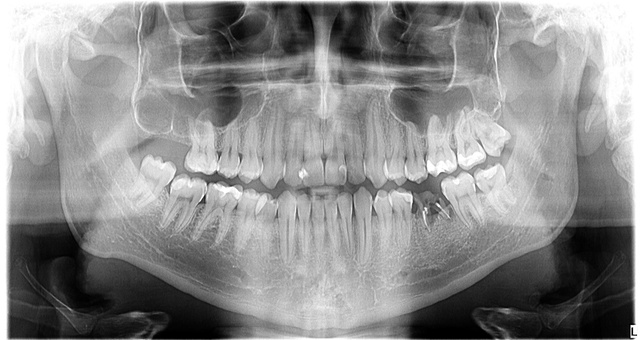
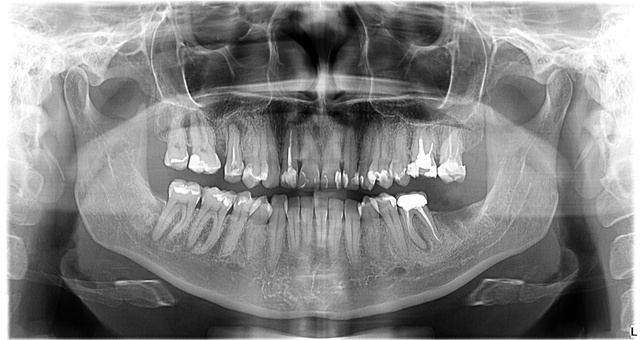
commit requirements

diff --git a/ai_service/teethDetectorOnnx.py b/ai_service/teethDetectorOnnx.py
@@ -1,0 +1,166 @@
+
+import onnxruntime as ort
+import numpy as np
+import cv2
+from domain.teeth import Teeth
+class TeethDetectorONNX:
+    def __init__(self, model_path):
+        self.session = ort.InferenceSession(model_path)
+        self.input_name = self.session.get_inputs()[0].name
+        self.output_names = [output.name for output in self.session.get_outputs()]
+
+    def preprocess(self, image, target_size=640):
+        image = np.array(image)
+        # Resize and normalize
+        print("preprocess")
+        resized = cv2.resize(image, (target_size, target_size))
+        print("preprocess1")
+        resized = resized.astype(np.float32) / 255.0
+        print("preprocess2")
+        resized = np.transpose(resized, (2, 0, 1))  # channels first
+        print("preprocess3")
+        resized = np.expand_dims(resized, axis=0)  # batch dim
+        print("preprocess4")
+        return resized, image.shape[1], image.shape[0]  # also return original width, height
+
+    def postprocess(self, outputs, orig_w, orig_h, conf_thres=0.2):
+        preds = outputs[0]  # (1, 88, 8400)
+        mask_protos = outputs[1]  # (1, 32, 160, 160)
+        num_classes = 52  # <- ⚡ adaugă aici câte clase ai
+
+        preds = preds[0]  # (88, 8400)
+        mask_protos = mask_protos[0]  # (32, 160, 160)
+
+        preds = preds.transpose(1, 0)  # (8400, 88)
+
+        print("preds0 = ",preds[0],"len = ",len(preds[0]))
+
+        print("preds1 = ",preds[1],"len = ",len(preds[1]))
+        bbox = preds[:, :4]
+        class_probs = preds[:, 4:4 + num_classes]
+        mask_coeffs = preds[:, 4 + num_classes:]
+        print("bbox len ",len(bbox))
+        print("class_probs len", len(class_probs[0]))
+
+
+
+
+        print("bbox ",bbox[0])
+        print("class_probs ",class_probs[0] , "len ",len(class_probs[0]))
+        print("mask_coeffs ",mask_coeffs[0] , "len ",len(mask_coeffs[0]))
+
+        teeth_list = []
+
+        print("preds shape len = ",preds.shape[0])
+
+        teeth_dict = {}
+
+        # Iterează prin toate predicțiile
+        for i in range(preds.shape[0]):
+
+            # Extrage probabilitățile pentru fiecare clasă
+            class_probs_i = class_probs[i]
+
+            # Caută probabilitatea maximă și clasa asociată
+            max_class_prob = np.max(class_probs_i)
+            class_id = np.argmax(class_probs_i)
+
+            # Adaugă un tuplu cu (indice predicție, probabilitate maximă) în dicționar
+            if class_id not in teeth_dict:
+                teeth_dict[class_id] = [(i, max_class_prob)]  # Inițializează lista cu primul tuplu
+            else:
+                teeth_dict[class_id].append((i, max_class_prob))  # Adaugă tuplu la lista existentă
+
+        # Filtrează dictionarul pentru a păstra doar tuplul cu probabilitatea maximă pentru fiecare clasă
+        for class_id in teeth_dict:
+            # Obține lista de tupluri pentru clasa respectivă
+            prediction_list = teeth_dict[class_id]
+
+            # Alege tuplul cu probabilitatea maximă
+            best_prediction = max(prediction_list, key=lambda x: x[1])
+
+            # Actualizează în dictionar pentru fiecare clasă cu tuplul cu probabilitatea maximă
+            teeth_dict[class_id] = best_prediction
+
+        print("teeth dict ", teeth_dict)
+
+
+        for class_id in list(teeth_dict.keys()):  # Iterează printr-o copie a cheilor pentru a evita erori în timp ce modifici dicționarul
+
+            val = teeth_dict[class_id]
+
+            # Verifică dacă probabilitatea maximă este mai mare sau egală cu 0.3
+            if val[1] < conf_thres:
+                # Dacă probabilitatea este mai mică decât 0.3, elimină clasa din dicționar
+                del teeth_dict[class_id]
+
+
+        print(sorted(teeth_dict.keys()))
+
+        return teeth_list
+        # for i in range(preds.shape[0]):
+        #
+        #         x1, y1, x2, y2 = bbox[i]
+        #         class_probs_i = class_probs[i]
+        #         class_id = int(np.argmax(class_probs_i))  # <- ia clasa cu cea mai mare probabilitate
+        #
+        #
+        #         # Caută probabilitatea maximă și clasa asociată
+        #         max_class_prob = np.max(class_probs_i)
+        #         class_id = np.argmax(class_probs_i)
+        #
+        #         # Setează un prag de confidență, de exemplu 0.5
+        #
+        #         if not teeth_dict[str(class_id)]:
+        #             teeth_dict[str(class_id)] = [max_class_prob]
+        #         else:
+        #             teeth_dict[str(class_id)].append(max_class_prob)
+        #
+        #         #object_confidence = preds[i, 4]  # Probabilitatea obiectului (fără clasa)
+        #         #print("obj_conf ",object_confidence)
+        #         if max_class_prob > conf_thres:
+        #             print("conf = ", max_class_prob)
+        #             print("class_id ", class_id)
+        #             coeffs = mask_coeffs[i]
+        #             # print("coeffs ",coeffs)
+        #
+        #             mask = np.dot(coeffs, mask_protos.reshape(mask_protos.shape[0], -1))
+        #             # print("mask1 ",mask)
+        #             mask = mask.reshape(mask_protos.shape[1], mask_protos.shape[2])
+        #             mask = cv2.resize(mask, (640, 640))
+        #             mask = (mask > 0.5).astype(np.uint8)
+        #             mask = cv2.resize(mask, (orig_w, orig_h))
+        #
+        #             x1_int, y1_int, x2_int, y2_int = map(int, [x1 / 640 * orig_w, y1 / 640 * orig_h, x2 / 640 * orig_w,
+        #                                                        y2 / 640 * orig_h])
+        #             mask_cropped = mask[y1_int:y2_int, x1_int:x2_int]
+        #
+        #             contours, _ = cv2.findContours(mask_cropped, cv2.RETR_EXTERNAL, cv2.CHAIN_APPROX_SIMPLE)
+        #
+        #             if contours:
+        #                 polygon = max(contours, key=cv2.contourArea).squeeze().tolist()
+        #                 if isinstance(polygon[0], list):
+        #                     polygon = [[p[0] + x1_int, p[1] + y1_int] for p in polygon]
+        #                 else:
+        #                     polygon = [polygon[0] + x1_int, polygon[1] + y1_int]
+        #             else:
+        #                 polygon = []
+        #
+        #             tooth = Teeth(name=class_id, polygon=polygon)
+        #             teeth_list.append(tooth)
+
+
+
+    def detect_teeths(self, image):
+
+        print("detect_teeths")
+        input_tensor, orig_w, orig_h = self.preprocess(image)
+
+        print("input_tensor ",input_tensor)
+
+        outputs = self.session.run(self.output_names, {self.input_name: input_tensor})
+
+        print("outputs ", outputs)
+        teeth_list = self.postprocess(outputs, orig_w, orig_h)
+        #print("teeth_list detector ", teeth_list)
+        return teeth_list

diff --git a/ai_service/aiService.py b/ai_service/aiService.py
@@ -8,13 +8,14 @@ from shapely.geometry import Polygon, Point , LineString
 
 import numpy as np
 import cv2
-
+from ai_service.teethDetectorOnnx import  TeethDetectorONNX
 
 class AiService:
     def __init__(self, teeth_model_path, issue_model_path):
           # Assuming you're using YOLO models
         self.teeth_model = YOLO(teeth_model_path)  # Load the first model
         self.issues_model = YOLO(issue_model_path)  # Load the second model
+        self.teethDetector = TeethDetectorONNX('teeth_model.onnx')
 
         self.issue_labels = {
             0:  'Implant',
@@ -41,59 +42,6 @@ class AiService:
         return self.issues_model.predict(source=image_path)
 
 
-    # def display_predictions(self, image, result):
-    #     """
-    #     Afișează bounding box-urile și etichetele pe imagine cu culori diferite pentru fiecare clasă.
-    #
-    #     Args:
-    #         image: Imaginea originală (format PIL sau numpy array).
-    #         result: Rezultatele predicției YOLO (Ultralytics).
-    #         issue_labels: Lista etichetelor claselor (ex. ["class1", "class2", ...]).
-    #     """
-    #     # Convertim imaginea într-un format OpenCV dacă e PIL
-    #     if not isinstance(image, np.ndarray):
-    #         image = np.array(image)
-    #
-    #     # Generăm culori unice pentru fiecare clasă
-    #
-    #
-    #
-    #     boxes = result[0].boxes  # Obține toate bounding box-urile
-    #
-    #     colors = {class_id: [random.randint(0, 255) for _ in range(3)] for class_id in range(len(boxes))}
-    #
-    #     for i in range(len(boxes)):
-    #         x_min, y_min, x_max, y_max = map(int, boxes.xyxy[i].tolist())  # Coordonate bbox
-    #         class_id = int(boxes.cls[i].item())  # Clasa prezisă
-    #         confidence = boxes.conf[i].item()  # Confidența predicției
-    #
-    #         # Numele clasei prezise
-    #         label = f"{class_id} ({confidence:.2f})"
-    #         color = colors[class_id]  # Culoarea clasei
-    #
-    #         # Desenăm bounding box-ul pe imagine
-    #         cv2.rectangle(image, (x_min, y_min), (x_max, y_max), color=color, thickness=2)
-    #
-    #         # Adăugăm eticheta deasupra bounding box-ului
-    #         font_scale = 0.5
-    #         font_thickness = 1
-    #         text_size = cv2.getTextSize(label, cv2.FONT_HERSHEY_SIMPLEX, font_scale, font_thickness)[0]
-    #         text_x, text_y = x_min, y_min - 5  # Poziția textului
-    #         text_background = (x_min, y_min - text_size[1] - 5, x_min + text_size[0], y_min)
-    #
-    #         # Desenăm un fundal pentru text (opțional)
-    #         cv2.rectangle(image, (text_background[0], text_background[1]),
-    #                       (text_background[2], text_background[3]), color, -1)
-    #
-    #         # Adăugăm textul pe imagine
-    #         cv2.putText(image, label, (text_x, text_y), cv2.FONT_HERSHEY_SIMPLEX,
-    #                     font_scale, (255, 255, 255), thickness=font_thickness)
-    #
-    #     # Afișăm imaginea folosind Matplotlib (nu blochează execuția)
-    #     plt.figure(figsize=(10, 10))
-    #     plt.axis('off')
-    #     plt.imshow(cv2.cvtColor(image, cv2.COLOR_BGR2RGB))
-    #     plt.show()
 
     def scale_coordinates(self,coords, original_shape, processed_shape):
         """
@@ -267,11 +215,17 @@ class AiService:
                 # Get the polygon (contour) of the mask
                 mask = masks.data[i].numpy()
 
+                print(mask)
+
+
                 contours, _ = cv2.findContours(mask.astype('uint8'), cv2.RETR_EXTERNAL, cv2.CHAIN_APPROX_SIMPLE)
 
+                print(contours)
                 # Choose the largest contour as the polygon (in case of multiple)
                 if contours:
                     polygon = max(contours, key=cv2.contourArea).squeeze().tolist()
+
+                    print(polygon)
 
                 else:
                     polygon = []
@@ -289,7 +243,14 @@ class AiService:
 
                 teeth_list.append(tooth)
 
-        print("get teeths")
+        print("get teeths yolo")
+        print(teeth_list)
+        print("get teeths onnx")
+        print("input names")
+        print(self.teethDetector.input_name)
+        print("output names")
+        print(self.teethDetector.output_names)
+        self.teethDetector.detect_teeths(image)
 
         self.load_issues(teeth_list,resized_image)
         for teeth in teeth_list:
@@ -302,3 +263,5 @@ class AiService:
 
 
 #Theets  [Teeth(name=31, issues=['Prosthetic restoration']), Teeth(name=29, issues=['Prosthetic restoration']), Teeth(name=6, issues=['Prosthetic restoration']), Teeth(name=7, issues=['Endodontic treatment', 'Prosthetic restoration']), Teeth(name=24, issues=[]), Teeth(name=27, issues=[]), Teeth(name=28, issues=[]), Teeth(name=9, issues=[]), Teeth(name=21, issues=[]), Teeth(name=8, issues=[]), Teeth(name=20, issues=[]), Teeth(name=4, issues=['Prosthetic restoration']), Teeth(name=5, issues=['Prosthetic restoration']), Teeth(name=1, issues=['Impacted tooth']), Teeth(name=3, issues=['Prosthetic restoration']), Teeth(name=10, issues=['Prosthetic restoration']), Teeth(name=23, issues=[]), Teeth(name=14, issues=['Prosthetic restoration']), Teeth(name=22, issues=[]), Teeth(name=13, issues=['Prosthetic restoration']), Teeth(name=18, issues=[]), Teeth(name=13, issues=['Prosthetic restoration']), Teeth(name=15, issues=[]), Teeth(name=11, issues=['Prosthetic restoration']), Teeth(name=12, issues=['Prosthetic restoration']), Teeth(name=25, issues=[]), Teeth(name=10, issues=['Prosthetic restoration']), Teeth(name=2, issues=['Prosthetic restoration']), Teeth(name=14, issues=['Prosthetic restoration']), Teeth(name=26, issues=[]), Teeth(name=30, issues=['Prosthetic restoration'])]
+
+

diff --git a/service/aiTasksService.py b/service/aiTasksService.py
@@ -40,13 +40,13 @@ class AiTasksService:
         return f"{blob.public_url}?t={int(timestamp)}"
 
     def analyse_panoramic_xray(self, image, patient_id):
-        print("aici3")
+
         #aducem pacientul din baza de date
         patient = self.patientRepo.get_patient_by_id(patient_id)
-        print("aici4")
+
         #salvam imaginea
         url = self.save_image_to_firebase(image, patient.last_name, patient.first_name)
-        print("aici5")
+
         #aplicam AI pe imagine si obtinem lista de dinti
         teeth_list = self.aiService.get_teeths(image)
 

diff --git a/controller/firebaseController.py b/controller/firebaseController.py
@@ -6,9 +6,9 @@ from fastapi.middleware.cors import CORSMiddleware
 
 
 # de modificat aici pentru deploy!!!!!
-from controller.radiographyController import router as radiography_router
-from controller.patientController import  router as patient_router
-from controller.aiTasksController import router as ai_router
+from radiographyController import router as radiography_router
+from patientController import  router as patient_router
+from aiTasksController import router as ai_router
 # FastAPI app
 app = FastAPI()
 

diff --git a/controller/export_models.py b/controller/export_models.py
@@ -1,0 +1,16 @@
+
+
+from ultralytics import YOLO
+
+# Încarcă modelul
+model = YOLO('teeth_model.pt')  # calea către modelul tău antrenat
+
+# Exportă în ONNX
+model.export(
+    format='onnx',
+    opset=12,               # versiunea ONNX. Recomandat >=12
+    imgsz=(640, 640),        # dimensiunea la care ai antrenat
+    dynamic=True,            # permite batch-size variabil
+    simplify=True,           # simplifică modelul
+    half=False               # fp32 (nu fp16) - dacă vrei fp16, pune True
+)
